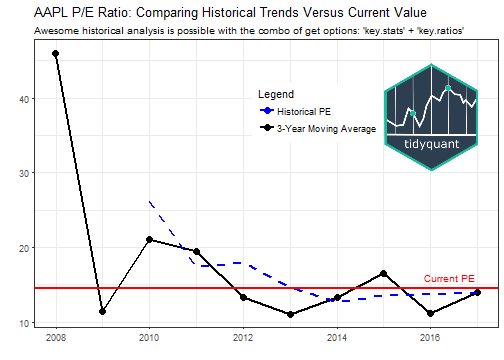
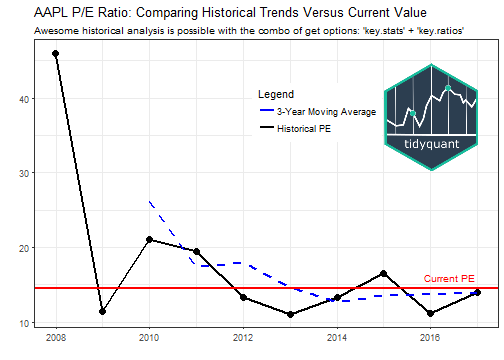
tidyquant 0.3.0 post: fix pe chart

Changed region(s): [[0.506, 0.275, 0.744, 0.3667]]

diff --git a/_posts/2017-1-22-tidyquant-update-0-3-0.md b/_posts/2017-1-22-tidyquant-update-0-3-0.md
@@ -355,7 +355,7 @@ g_pic <- grid::rasterGrob(img, interpolate=TRUE)
 AAPL_historical_pe_ratios %>%
     ggplot(aes(x = date, y = value)) +
     geom_line(aes(color = "historical.pe"), size = 1) +
-    geom_point(aes(color = "historical.pe"), size = 3) +
+    geom_point(size = 3) +
     geom_ma(aes(color = "historical.ma"), ma_fun = SMA, n = 3, size = 1) +
     geom_hline(yintercept = AAPL_key_stats$PE.Ratio, color = "red", size = 1) + 
     labs(title = "AAPL P/E Ratio: Comparing Historical Trends Versus Current Value", 
@@ -363,8 +363,10 @@ AAPL_historical_pe_ratios %>%
          y = "", x = "") +
     scale_colour_manual(name = 'Legend', 
                         guide = 'legend',
-                        values = c('historical.pe' = 'black', 'historical.ma' = 'blue'), 
-                        labels = c('Historical PE', '3-Year Moving Average')) +
+                        values = c('historical.pe' = 'black',
+                                   'historical.ma' = 'blue'), 
+                        labels = c('3-Year Moving Average',
+                                   'Historical PE')) +
     annotate("text", label = "Current PE", x = ymd("2016-06-01"), y = 16, 
              color = "red", size = 3.5) +
     theme_bw() +
